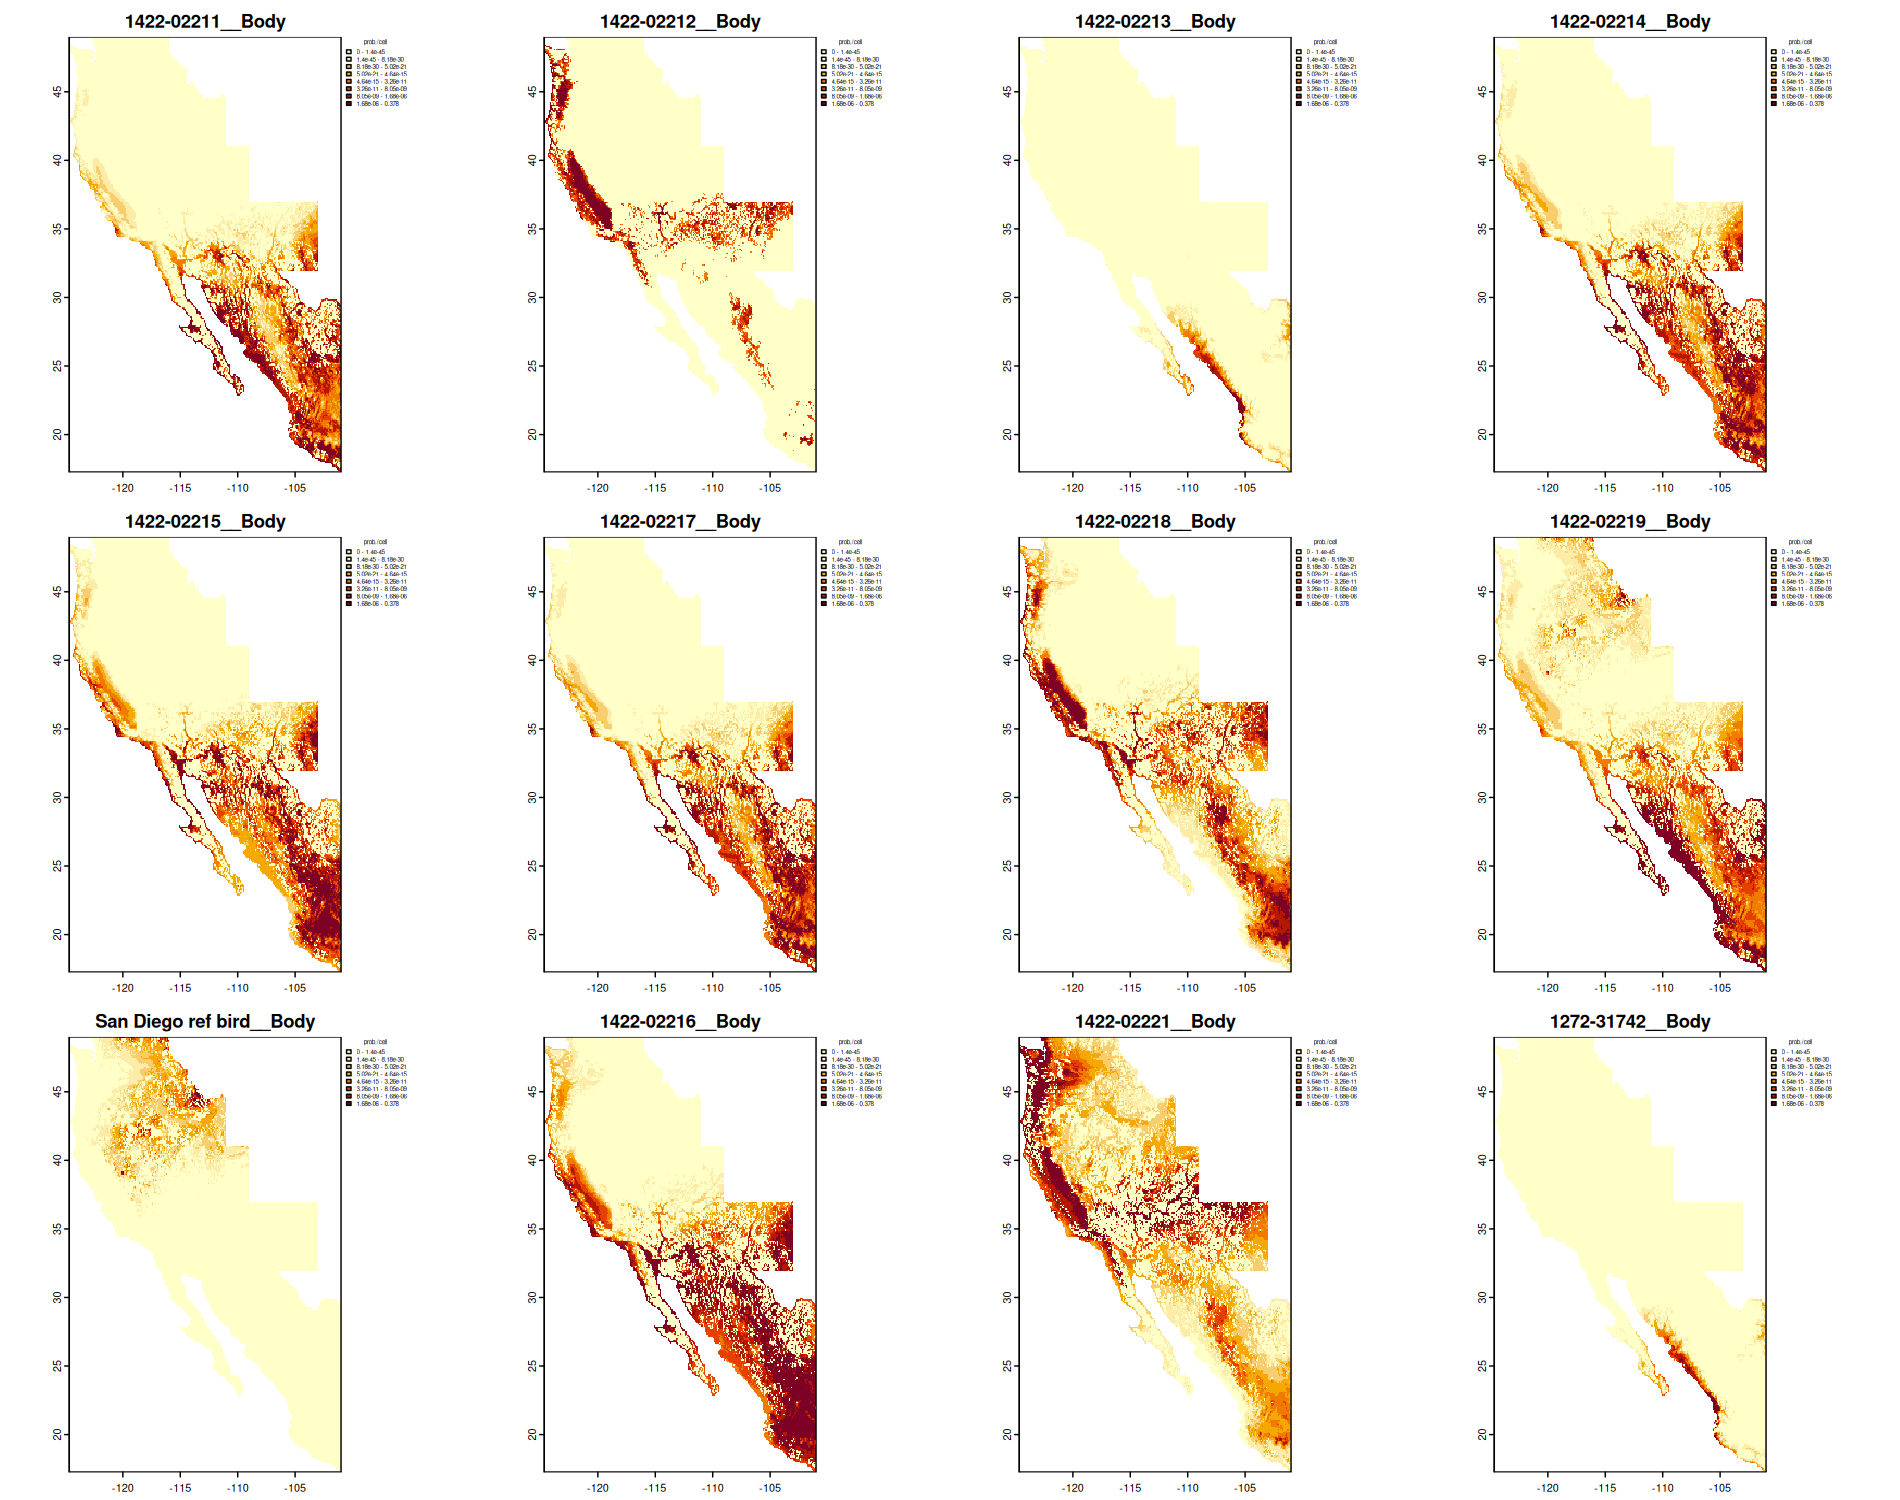
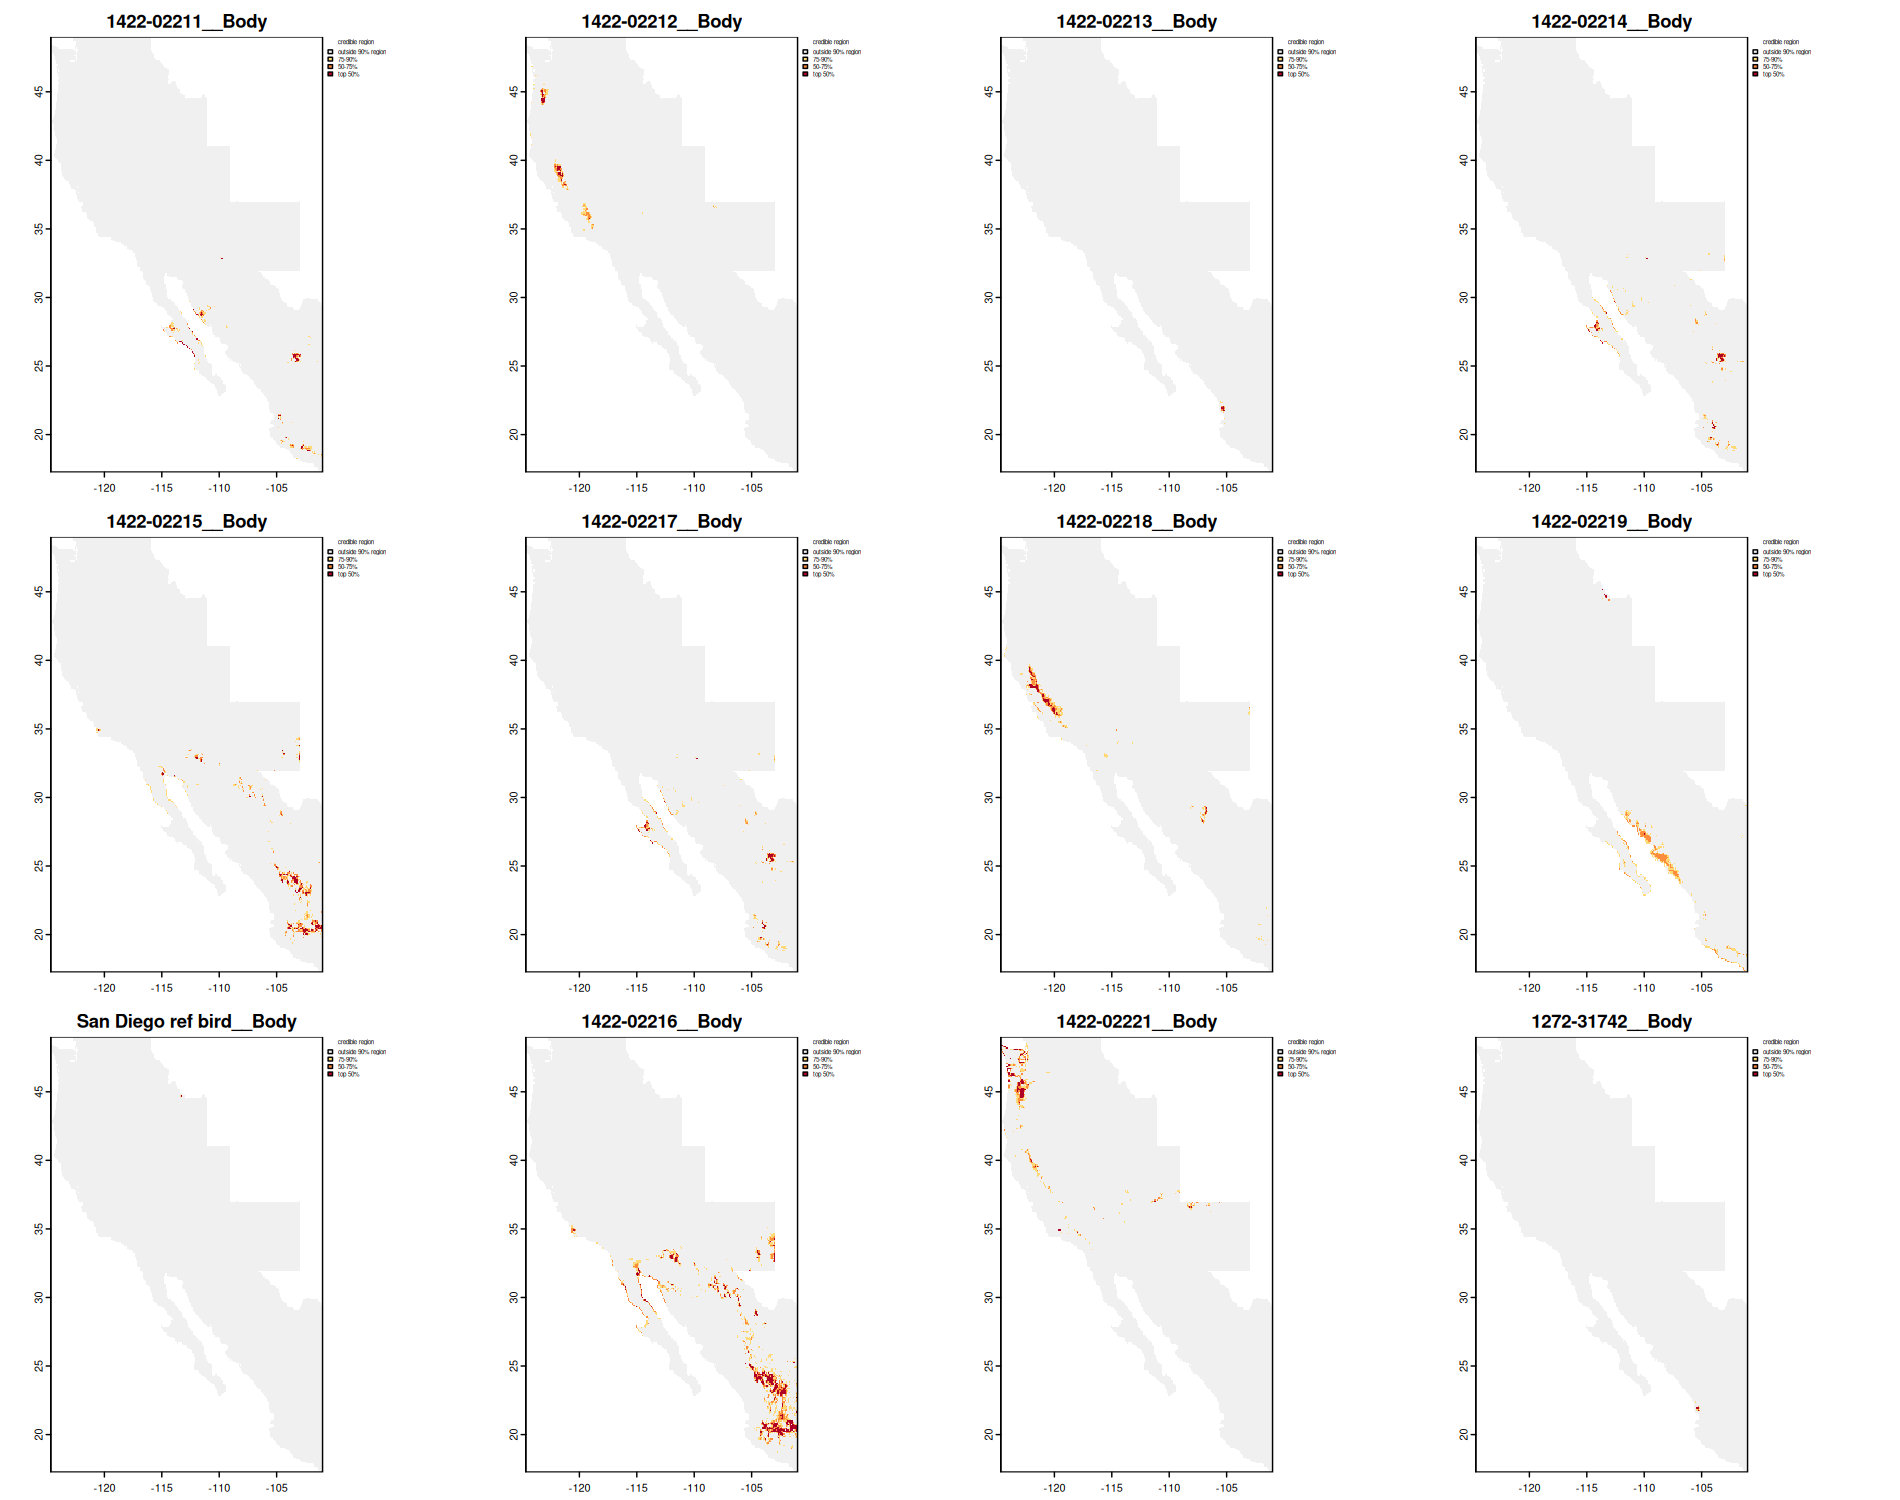
Fix population map color scale to match credible-region stats
Map colors now classify directly by credible region (top 50% / 50-75% /
75-90% / outside 90%, from the same thresholdType="prob" rasters used for
the stats table) instead of by quantile-of-pixel-value. The quantile
approach made broad, actually-low-probability areas look "hot" by relative
rank on the extremely right-skewed probability surfaces, so the map's
coloring and the credible-region area stats told visually different
stories -- a "28,000 km^2 credible area" stat next to a map that looked
like most of the Southwest was lit up. Now the colored area on the map
equals the credible-region area in the stats table by construction.

Also drops per_feather_grid.png, an uncurated byproduct of assignR's own
internal pdRaster() plotting (terra silently caps it at 16 of the 53
samples, using assignR's default color scheme unrelated to this project's
maps) that was never a real deliverable and only caused confusion.
individuals_body.png/individuals_flight.png (one panel per bird, with
that bird's feathers already combined) are the per-bird figures to use.

diff --git a/REPORT.md b/REPORT.md
@@ -238,7 +238,20 @@ across Mexico, California, and the Pacific Northwest interior.
   `thresholdType = "area"`, which is not a real credible region) and the
   Baja/mainland Mexico zone split (was silently returning 0 for Baja on
   every individual); fixed map color scaling and missing legends.
-- Correction 2 (this version): added the ESA WorldCover habitat
-  suitability prior (fixing a real assignR bug in the process), added
-  bird 1272-31742 as a reference individual, added the carbon/nitrogen
-  isotope cross-check.
+- Correction 2: added the ESA WorldCover habitat suitability prior
+  (fixing a real assignR bug in the process), added bird 1272-31742 as a
+  reference individual, added the carbon/nitrogen isotope cross-check.
+- Correction 3 (this version): map colors are now classified directly by
+  credible region (50% / 50-75% / 75-90% / outside 90%) instead of by
+  quantile-of-pixel-value. The quantile approach made broad,
+  actually-low-probability areas look "hot" by relative rank, so the
+  map's coloring and the credible-region area stats told visually
+  different stories (a "28,000 km^2 credible area" stat next to a map
+  that looked like most of the Southwest was lit up). Now the colored
+  area on the map matches the credible-region area in the stats table by
+  construction. Also dropped `per_feather_grid.png` -- an uncurated
+  byproduct of assignR's own internal plotting (terra caps it at 16 of
+  the 53 samples, with a color scheme unrelated to this project's maps)
+  that was never a real deliverable; `individuals_body.png`/
+  `individuals_flight.png` (one panel per bird, feathers already
+  combined) are the per-bird figures to use.
